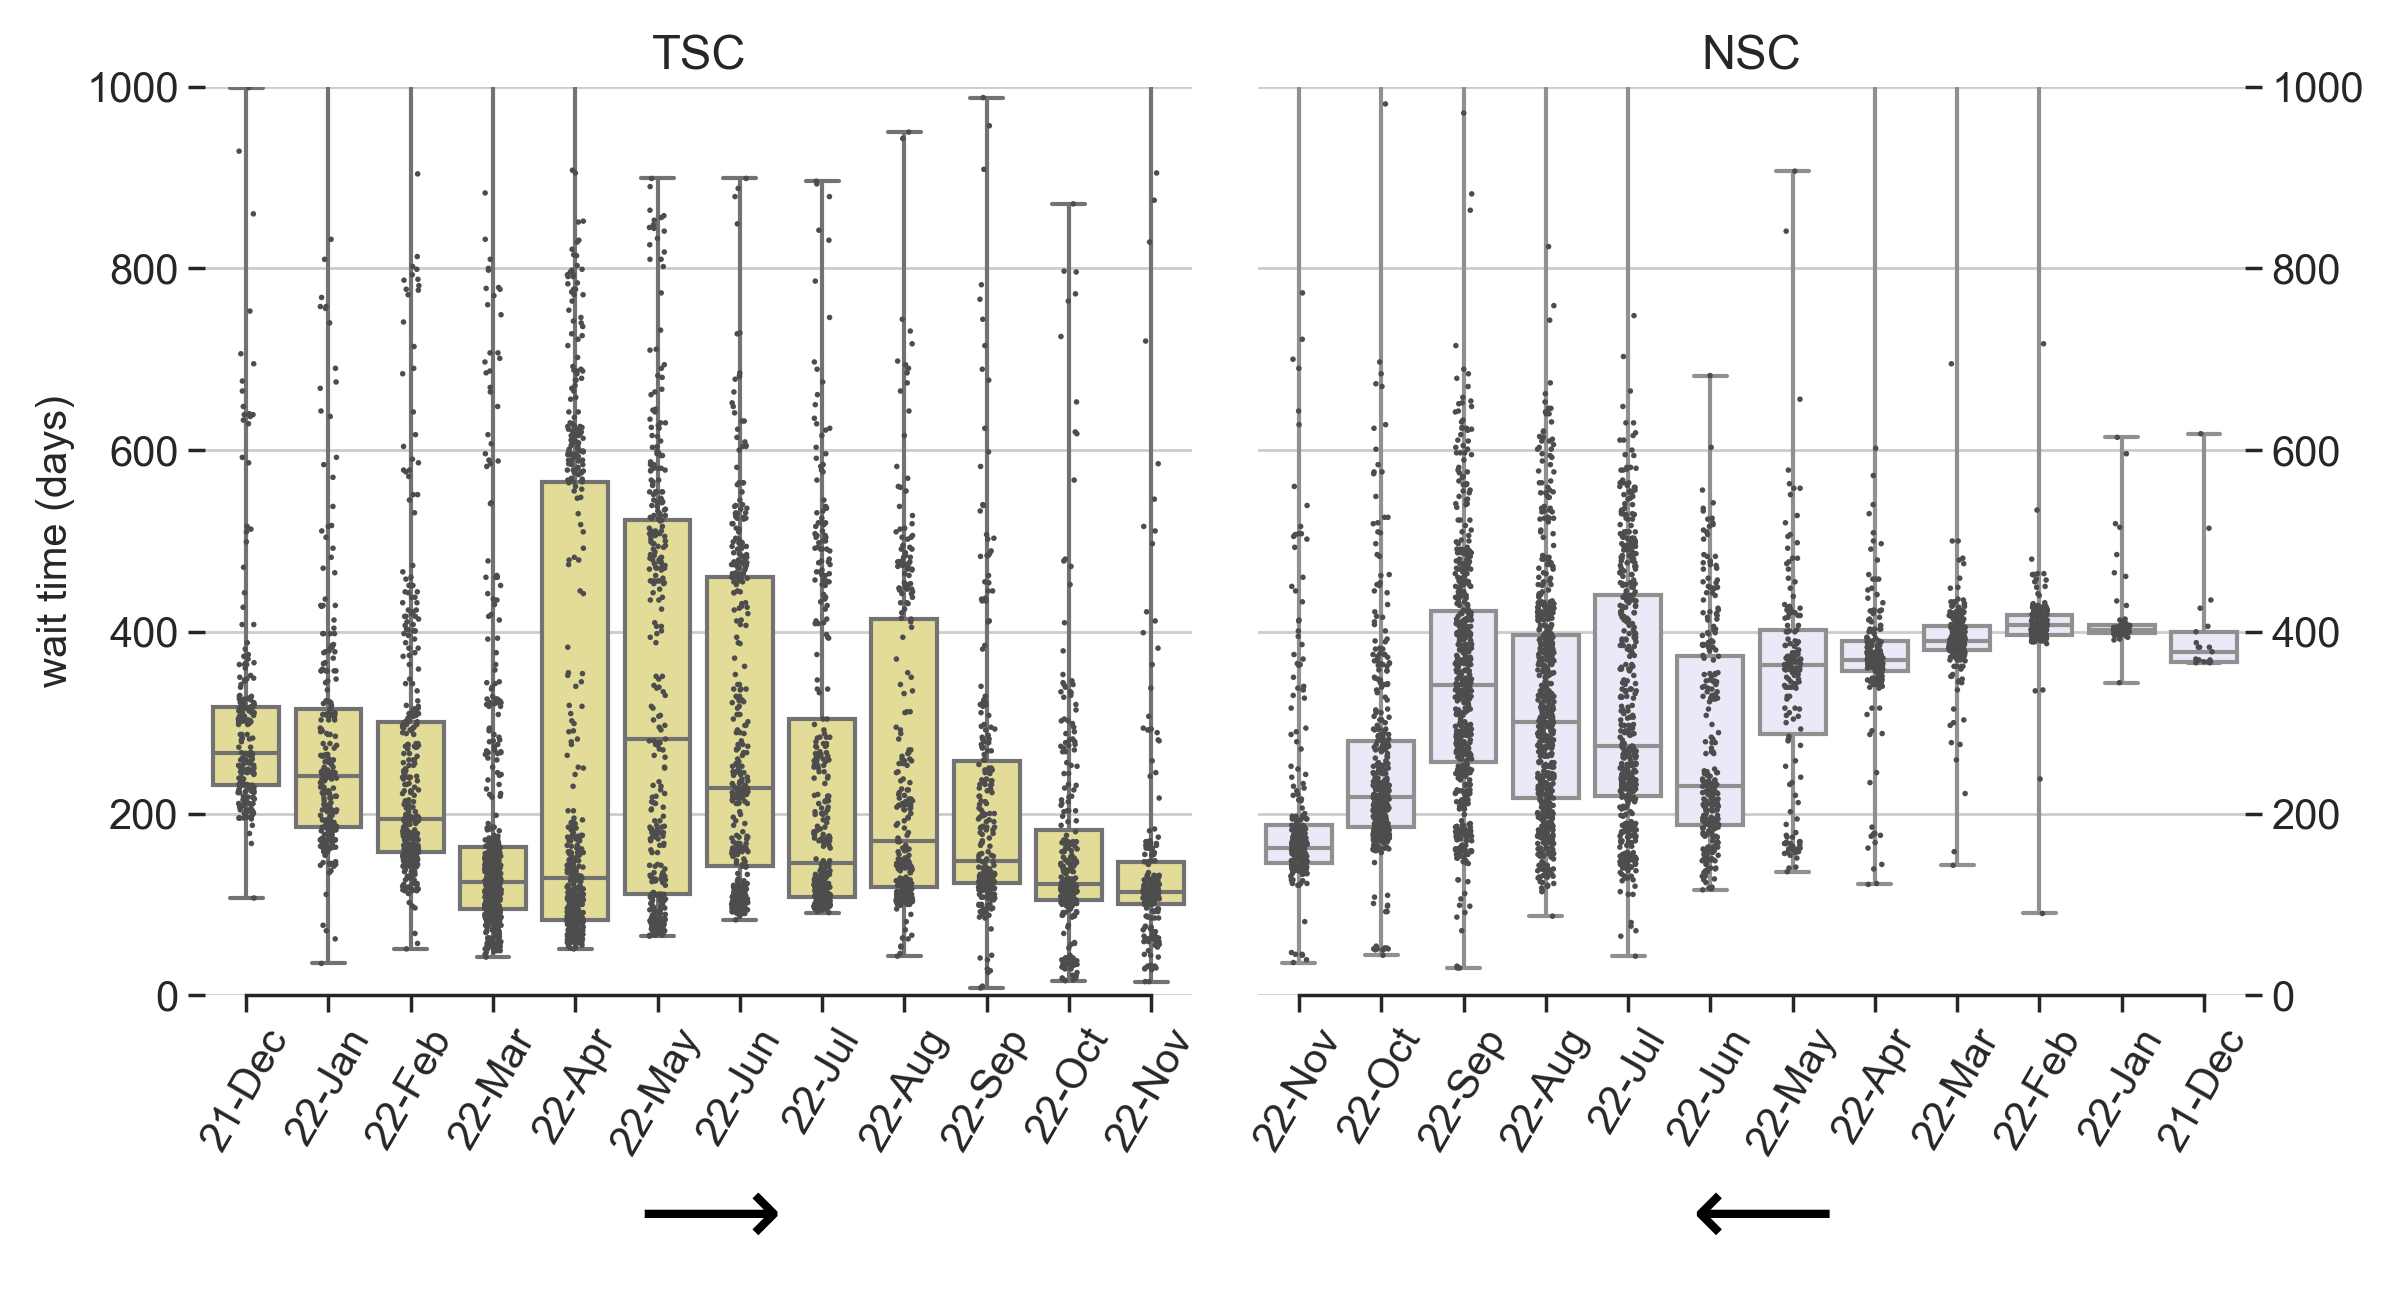
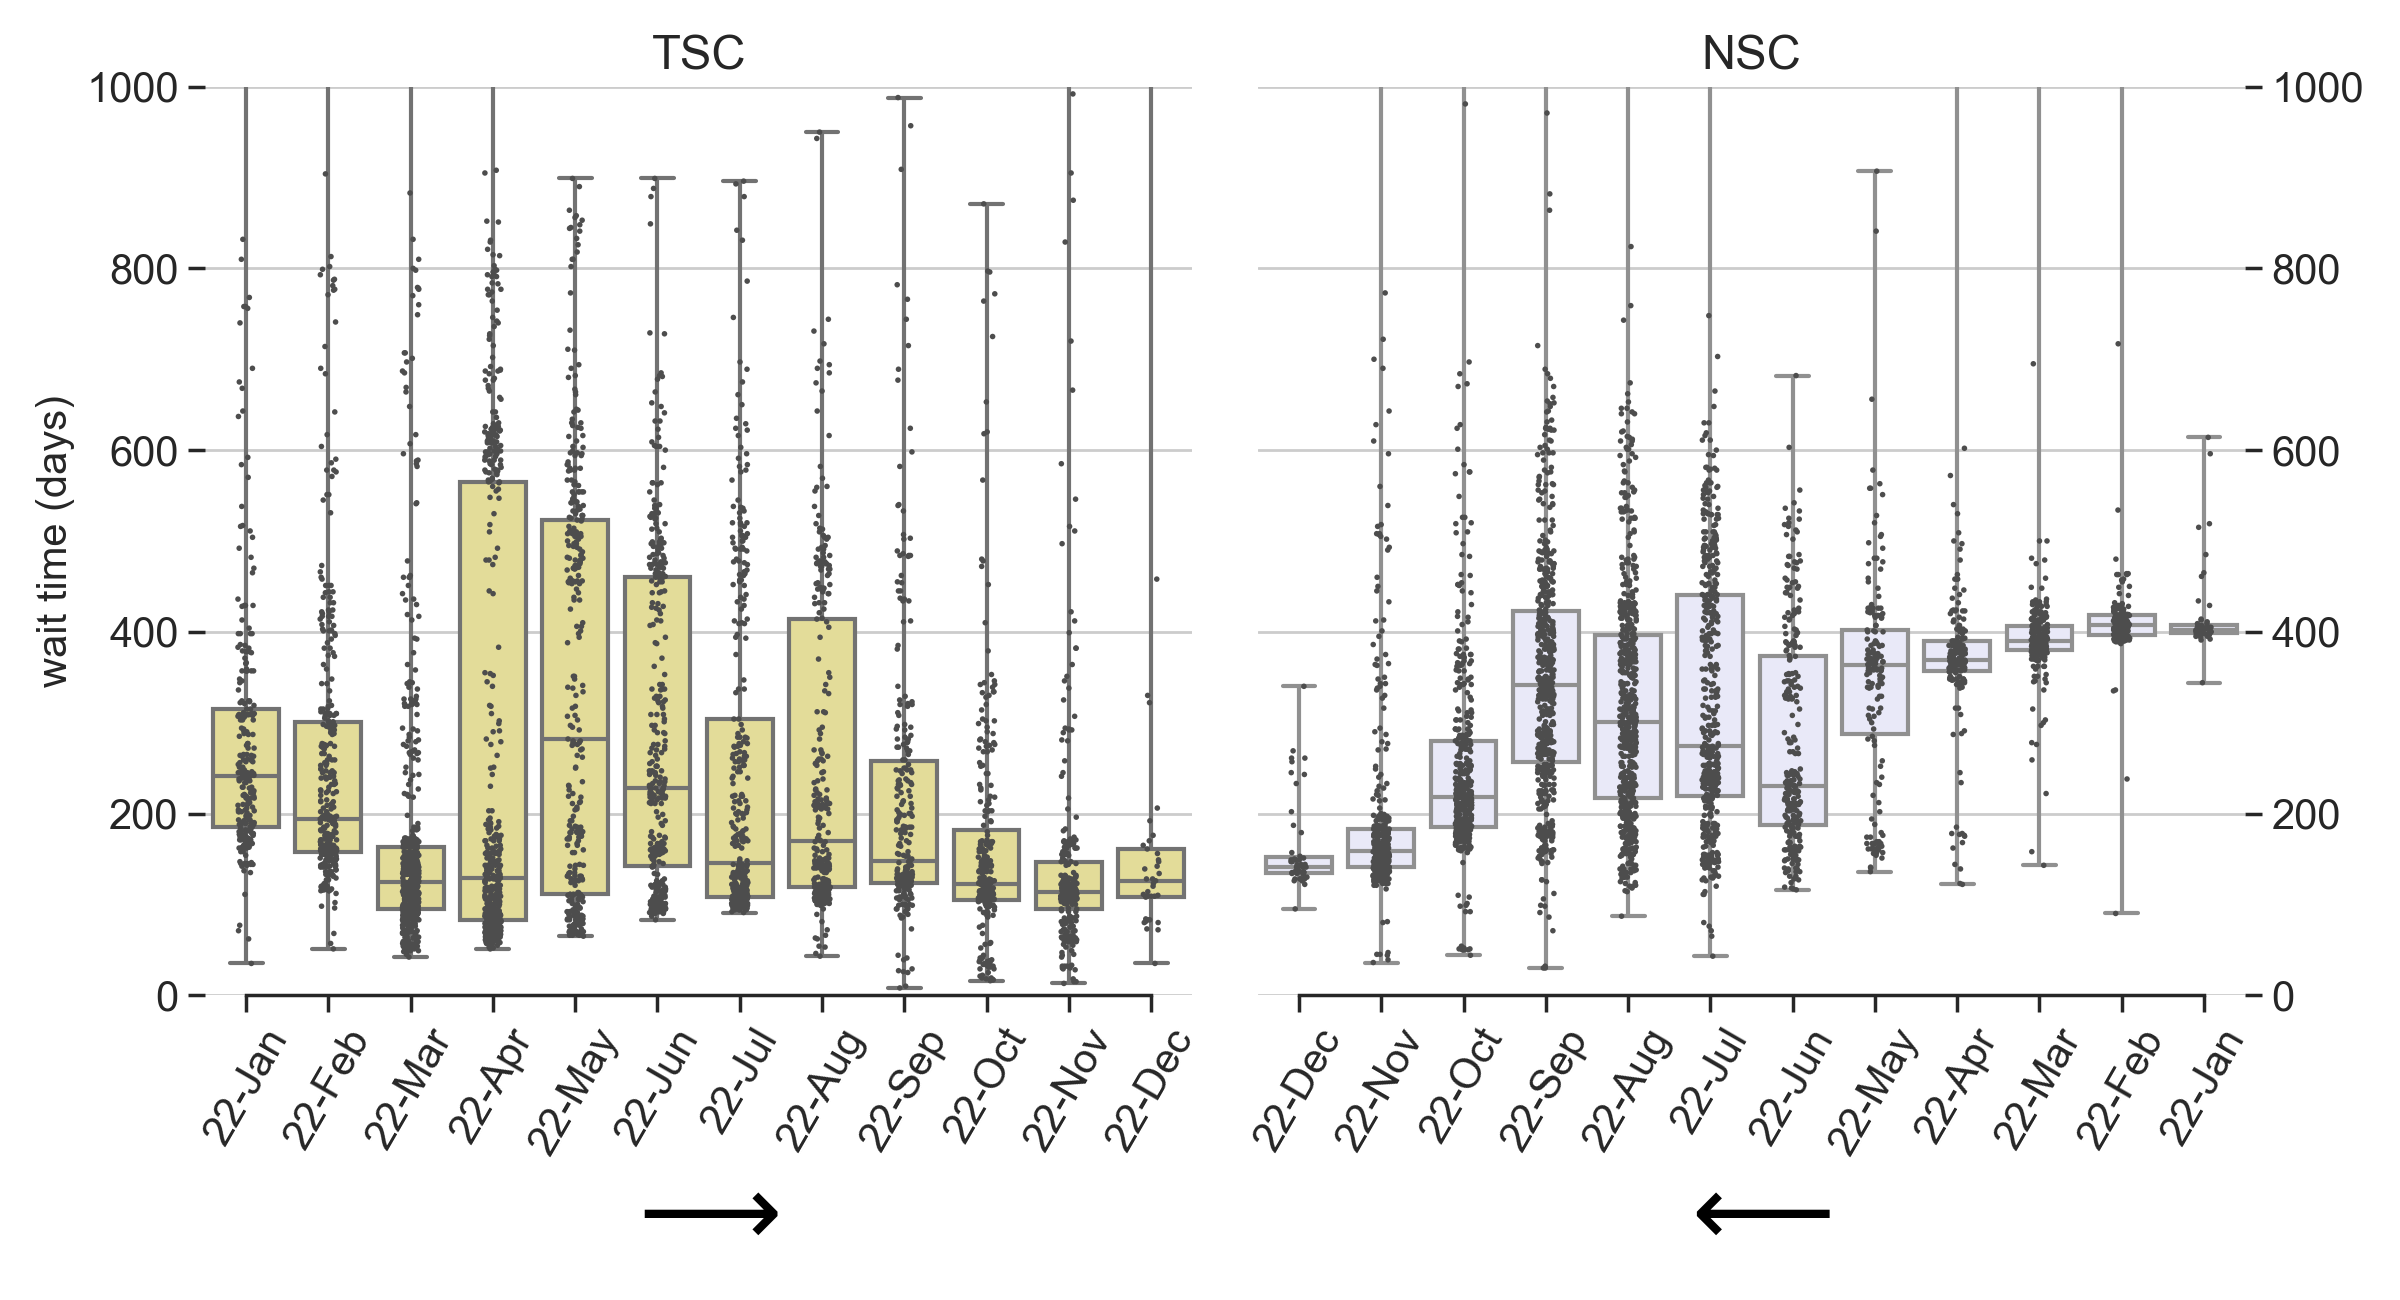
Dec-27 update

diff --git a/README.md b/README.md
@@ -1,4 +1,4 @@
-## National Interest Waiver Wait Time, updated Dec-15-2022 
+## National Interest Waiver Wait Time, updated Dec-27-2022 
 * If you wish to join our Telegram action group to discuss the delays of processing at TSC, please [fill out this form](https://docs.google.com/forms/d/194Vp6uimucdul6iqtNFB1HSKz_z75RKsQ-cp3z7f8YY/viewform?edit_requested=true).
  
 USCIS Employment-based-2 NIW I-140 wait time before approval (data source: [Victoria Chen](https://www.wegreened.com/eb1_niw_approvals)). 
